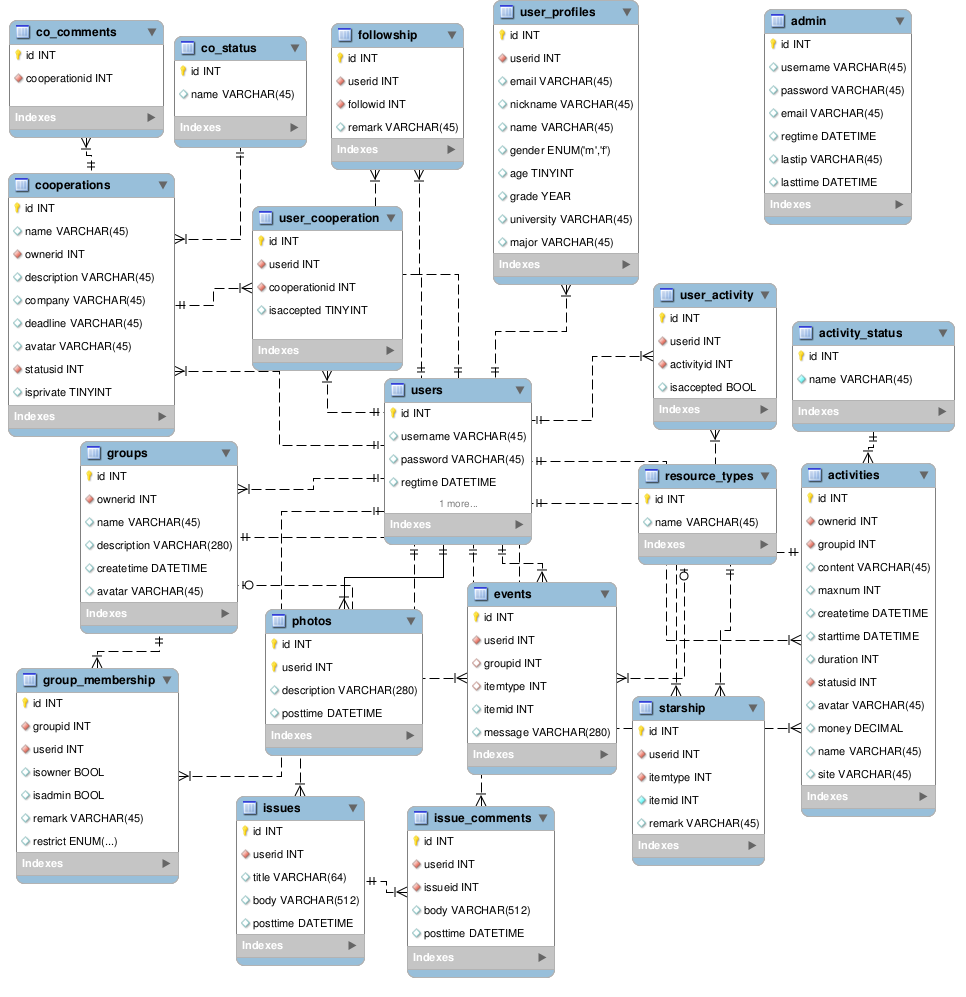
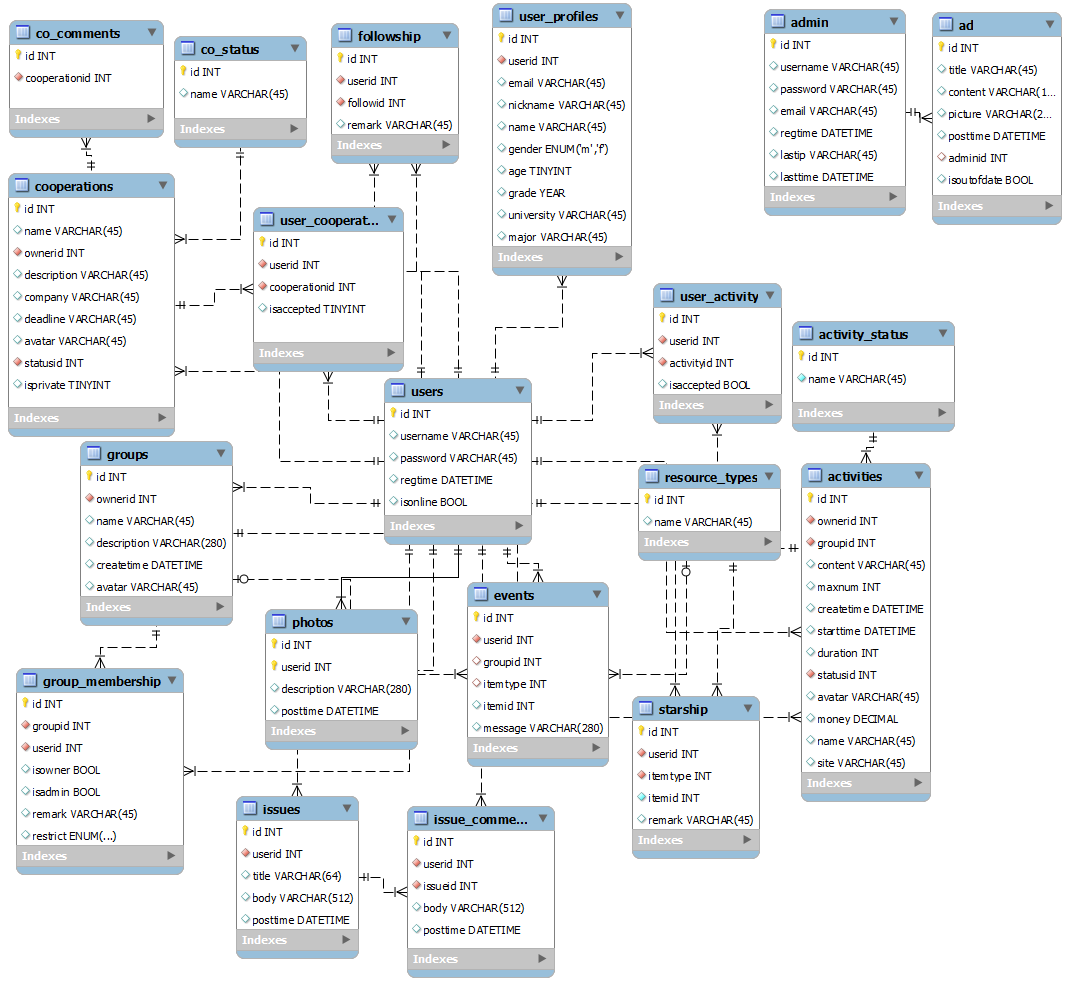
add ads

Changed region(s): [[0.0, 0.0, 0.9938, 0.998], [0.7143, 0.0, 0.9938, 0.2495], [0.1553, 0.7485, 0.2174, 0.8109]]

diff --git a/static/admin/list_bulletin.html b/static/admin/list_bulletin.html
@@ -7,7 +7,8 @@
         <th>内容</th>
         <th>图片</th>
         <th>时间</th>
-        <th>发布人</th>
+        <th>已过期</th>
+        <th>发布人id</th>
     </tr>
     </thead>
 
@@ -23,18 +24,23 @@
         <script>
             function loadBulletinTable(){
                 $.ajax({
-                    url:'/api/admin/find',
-                    success:function(data){
-                        var admins = data['admins'];
+                    url:'/api/ads/find',
+                    success:function(ads){
                         var str = '';
-                        for(var i=0; i<admins.length; i++){
-                            str = '<tr>'
-                                +'<td>'+admins[i]['username']+'</td>'
+                        for(var i=0; i<ads.length; i++){
+                            str += '<tr>'
+                                +'<td>'+ads[i]['id']+'</td>'
+                                +'<td>'+ads[i]['title']+'</td>'
+                                +'<td>'+ads[i]['content']+'</td>'
+                                +'<td>'+ads[i]['picture']+'</td>'
+                                +'<td>'+ads[i]['posttime']+'</td>'
+                                +'<td>'+ads[i]['isoutofdate']+'</td>'
+                                +'<td>'+ads[i]['adminid']+'</td>'
                                 +'</tr>';
                         }
-                        console.log(admins);
                         $('#bulletintable>tbody').html(str);
                     }
                 });
             }
+            loadBulletinTable();
         </script>

diff --git a/routes/ads.js b/routes/ads.js
@@ -1,0 +1,66 @@
+/**
+ * Created by Cam on 14-1-8.
+ * @class APP上方滚动广告
+ */
+var Ad = require('../models/ad'),
+	errors = require('../lib/errors'),
+	Ads = Ad.Set;
+
+module.exports = function (app) {
+
+	/**
+	 * get /api/ads/list
+	 * @method 取得广告标题和图片
+	 * @param {null}
+	 * @return {JSON} {  
+	 * 　　title: '',
+	 * 　　picture: ''
+	 * }
+	 */
+	app.get('/api/ads/list', function (req, res, next){
+		Ads.forge().query('where', 'isoutofdate', '=', 'false')
+			.fetch({
+				columns: ['title','content']
+			})
+			.then(function(ads){
+				next(ads);
+			});
+	});
+	
+	/**
+	 * get /api/ads/find
+	 * @method 广告列表（全）
+	 * @param {null}
+	 * @return {JSON} 
+	 * 含ad模型的所有字段
+	 */
+	app.get('/api/ads/find', function (req, res, next){
+		Ads.forge()
+			.fetch().then(
+				function(ads){
+					next(ads);
+				}
+			);
+	});
+
+	/**
+	 * post /api/ads/add
+	 * @method 添加广告
+	 * @param {String} title
+	 * @param {String} content
+	 * @param {String} picture
+	 * @return {JSON}
+	 * {msg: 'ad added'}
+	 */
+	app.post('/api/ads/add', function(req, res, next){
+		if(!req.session.adminid){
+			next(errors[21301]);
+		}
+		Ad.forge(req.body)
+			.set({adminid: req.session.adminid})
+			.save()
+			.then(function(){
+				next({msg: 'ad added'});
+			});
+	});
+};

diff --git a/static/admin/add_bulletin.html b/static/admin/add_bulletin.html
@@ -1,5 +1,5 @@
 <h3>发布公告</h3>
-<form class="pure-form pure-form-aligned">
+<form id="adform" class="pure-form pure-form-aligned" action="/api/ads/add" method="post">
     <fieldset>
         <div class="pure-control-group">
             <label for="title">标题</label>
@@ -12,12 +12,21 @@
         </div>
 
         <div class="pure-control-group">
-            <label for="img">图片</label>
-            <input id="img" type="file" name="img"/>
+            <label for="img">图片(720*120)</label>
+            <input id="img" type="file" name="picture"/>
         </div>
 
         <div class="pure-controls">
-            <button type="submit" class="pure-button pure-button-primary">Submit</button>
+            <button type="button" onclick="add()" class="pure-button pure-button-primary">Submit</button>
         </div>
     </fieldset>
 </form>
+        <script>
+            function add(){
+                $.post('/api/ads/add', $('#adform').serialize(), function(data){
+                    if(data['msg']){
+                        alert('添加成功！');
+                    }
+                });
+            }
+        </script>

diff --git a/models/ad.js b/models/ad.js
@@ -1,0 +1,27 @@
+/**
+ * Created by Cam on 14-1-24.
+ * APP上方的滚动广告
+ */
+var syBookshelf = require('./base'),
+	fkAdmin = 'adminid',
+	Ad, Ads;
+
+Ad = module.exports = syBookshelf.Model.extend({
+	tableName: 'ad',
+	fields: [
+		'id', 'title', 'content', 'picture', 'posttime', 'adminid', 'isoutofdate'
+	],
+	defaults: function () {
+		return {
+			posttime: new Date(),
+			isoutofdate: false
+		};
+	},
+	admin: function () {
+		return this.belongsTo(require('./admin'), fkAdmin);
+	}
+});
+
+Ads = Ad.Set = syBookshelf.Collection.extend({
+	model: Ad
+});

diff --git a/routes/index.js b/routes/index.js
@@ -12,6 +12,7 @@ module.exports = function (app) {
 	require('./cooperations')(app);
 	require('./starship')(app);
 	require('./events')(app);
+	require('./ads')(app);
 
 	app.use('/api', function (data, req, res, next) {
 		if (data instanceof Error) return next(data);

diff --git a/static/admin/js/main.js b/static/admin/js/main.js
@@ -119,3 +119,12 @@ function load(file){
 		}
 	});
 }
+
+function ajaxSubmit(url, form, success){
+	var arr = form.serializeArray();
+	var data = {};
+	for(var i=0; i<arr.length; i++){
+		data[ arr[i]['name'] ] = arr[i]['value'];
+	}
+	$.post(url, data, success);
+}
